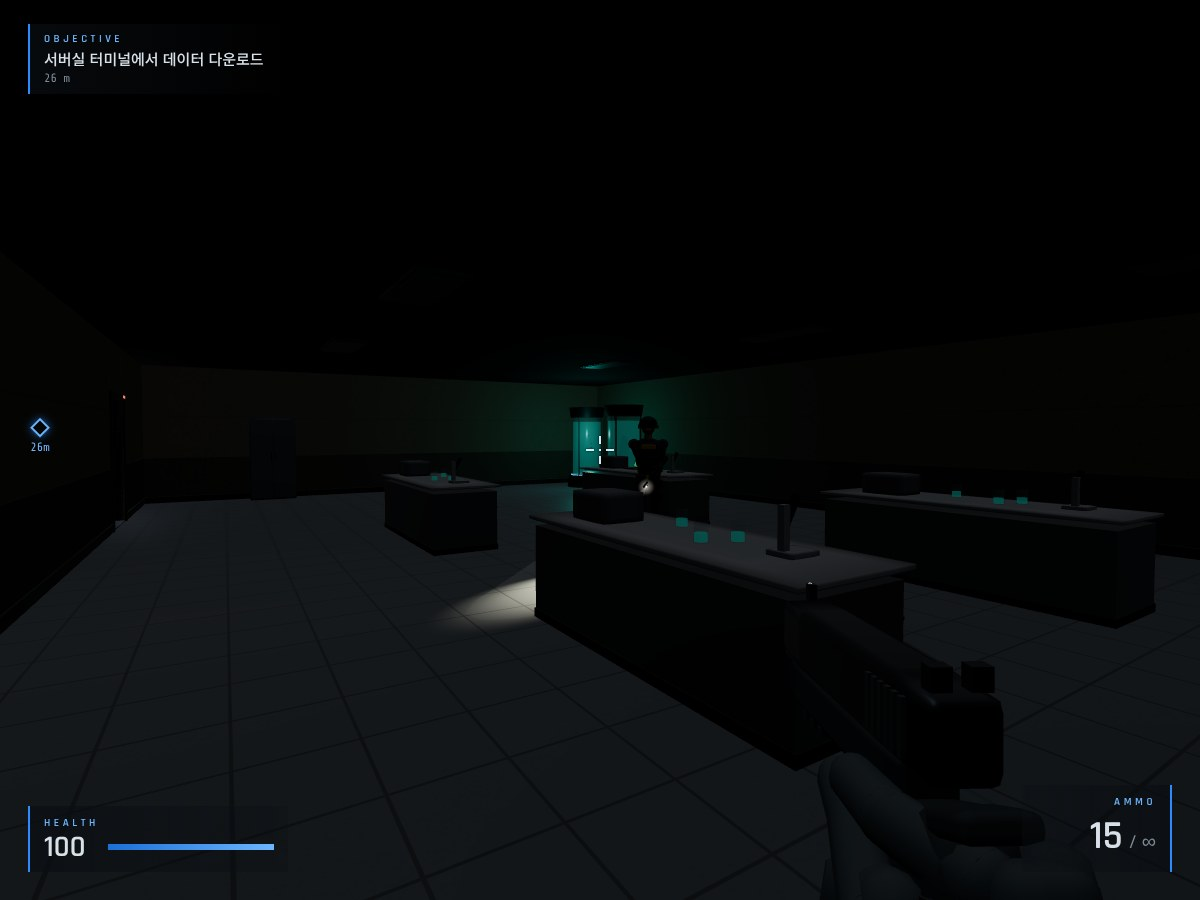
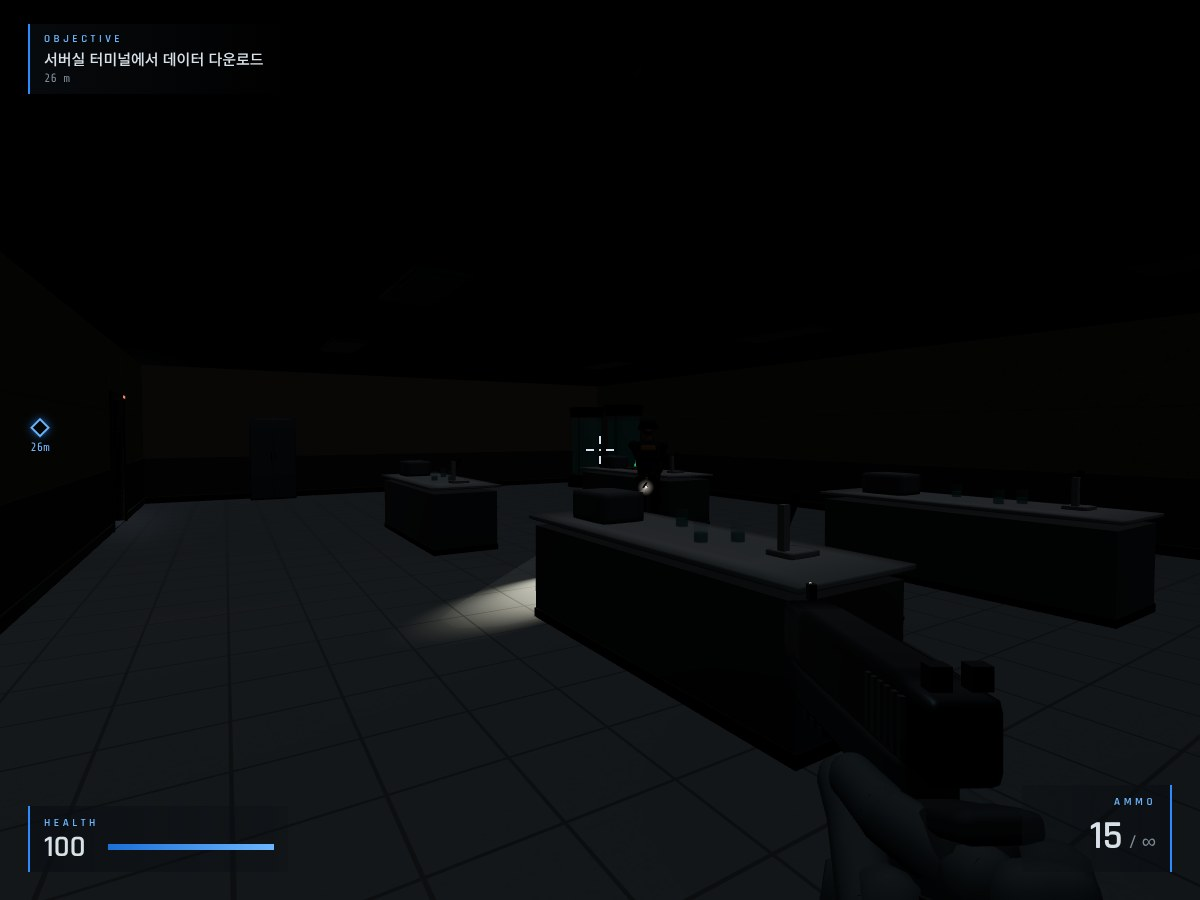
blacksite: 경비원 상체 기울임 제거, 실험실 기구 전원 꺼짐(퇴근 후 빈 시설 분위기)
Claude-Session: https://claude.ai/code/session_01BNALmAtncsyELPaCcDn6of

diff --git a/blacksite/src/animations/joint/JointAnimator.js b/blacksite/src/animations/joint/JointAnimator.js
@@ -6,7 +6,7 @@ import { clamp, damp, lerp, smooth } from '../../utils/math.js';
 const LOW_READY = {
   rShoulder: [-0.35, 0, -0.12], rElbow: [-1.0, 0.25, 0],
   lShoulder: [-0.7, 0, 0.3], lElbow: [-1.1, -0.2, 0],
-  weapon: [0.6, -0.45, 0.2], chest: [0.04, 0, 0], head: [0.05, 0, 0],
+  weapon: [0.6, -0.45, 0.2], chest: [0, 0, 0], head: [0.05, 0, 0],
 };
 const AIM = {
   rShoulder: [-1.25, 0, -0.32], rElbow: [-0.75, 0.3, 0],
@@ -70,19 +70,21 @@ export class JointAnimator {
     J.rKnee.rotation.x = R.rKnee.rot.x + Math.max(0, -Math.sin(ph + 1.3)) * 0.85 * Math.min(k, 1.3) + 0.05;
     J.hips.position.y = R.hips.pos.y + Math.abs(Math.cos(ph)) * 0.025 * Math.min(k, 1) - 0.02 * Math.min(k, 1);
     J.hips.rotation.y = Math.sin(ph) * 0.08 * Math.min(k, 1);
-    J.spine.rotation.y = -Math.sin(ph) * 0.06 * Math.min(k, 1);
-    J.spine.rotation.x = 0.06 * Math.max(0, k - 1); // 달릴 때 앞으로 숙임
+    // 상체는 기울이지 않는다 (앞으로 숙이기·옆으로 기울이기 없음, 걸을 때 아주 약한 비틀림만)
+    J.spine.rotation.set(0, -Math.sin(ph) * 0.06 * Math.min(k, 1), 0);
     // 숨쉬기
-    J.chest.rotation.x += Math.sin(this.time * 1.6) * 0.012;
+    // 숨쉬기: 기울이지 않고 가슴이 아주 살짝 오르내림
+    J.chest.position.y = R.chest.pos.y + Math.sin(this.time * 1.6) * 0.004;
     // 고개
     J.head.rotation.y = this.headYaw;
     J.neck.rotation.y = this.headYaw * 0.3;
     // 피격 움찔
     if (this.flinch > 0) {
       const f = smooth(this.flinch);
-      J.chest.rotation.x -= 0.25 * f;
-      J.head.rotation.x -= 0.2 * f;
-      J.spine.rotation.z += 0.12 * f;
+      // 피격 움찔: 상체는 그대로, 고개와 팔만 반응
+      J.head.rotation.x -= 0.25 * f;
+      J.rShoulder.rotation.x += 0.2 * f;
+      J.lShoulder.rotation.x += 0.2 * f;
     }
     // 사격 반동
     if (this.fireKick > 0) {

diff --git a/blacksite/src/environments/props/rooms.js b/blacksite/src/environments/props/rooms.js
@@ -50,7 +50,7 @@ export function labTable(def, M) {
     const l = mesh(new THREE.CylinderGeometry(0.045, 0.045, 0.06, 10), M.liquid, x, 0.96, z); l.userData.noMerge = true; g.add(l);
   });
   g.add(mesh(roundedBox(0.5, 0.25, 0.4, 0.02), M.plasticGrey, 0.8, 1.05, -0.1));
-  const sc = mesh(new THREE.PlaneGeometry(0.2, 0.1), M.screenTeal, 0.8, 1.08, 0.105); sc.castShadow = false; g.add(sc);
+  const sc = mesh(new THREE.PlaneGeometry(0.2, 0.1), M.screenOff, 0.8, 1.08, 0.105); sc.castShadow = false; g.add(sc);
   return { object: g };
 }
 
@@ -68,7 +68,7 @@ export function specimenTank(def, M) {
   blob.scale.set(1, 1.8, 0.9);
   g.add(blob);
   for (const a of [0, 2.1, 4.2]) g.add(mesh(new THREE.CylinderGeometry(0.02, 0.02, 1.8, 6), M.metal, Math.cos(a) * 0.47, 1.22, Math.sin(a) * 0.47));
-  const ring = mesh(new THREE.TorusGeometry(0.47, 0.025, 6, 20), M.ledBlue, 0, 0.36, 0, Math.PI / 2, 0, 0);
+  const ring = mesh(new THREE.TorusGeometry(0.47, 0.025, 6, 20), M.metalDark, 0, 0.36, 0, Math.PI / 2, 0, 0); // 조명 링 꺼짐
   ring.castShadow = false;
   g.add(ring);
   return { object: g };

diff --git a/blacksite/src/environments/Materials.js b/blacksite/src/environments/Materials.js
@@ -98,7 +98,9 @@ export function createMaterials() {
     ledGreen: S({ color: 0x000000, emissive: 0x3dff8a, emissiveIntensity: 2.0 }),
     ledRed: S({ color: 0x000000, emissive: 0xff2a2a, emissiveIntensity: 2.2 }),
     ledAmber: S({ color: 0x000000, emissive: 0xffa020, emissiveIntensity: 2.0 }),
-    liquid: new THREE.MeshStandardMaterial({ color: 0x0c4a4a, emissive: 0x1fb5a8, emissiveIntensity: 0.3, roughness: 0.2, transparent: true, opacity: 0.75, depthWrite: false }),
+    // 전원이 꺼진 화면 (검은 유리)
+    screenOff: S({ color: 0x07090b, roughness: 0.15, metalness: 0.4 }),
+    liquid: new THREE.MeshStandardMaterial({ color: 0x082a2a, emissive: 0x1fb5a8, emissiveIntensity: 0.02, roughness: 0.2, transparent: true, opacity: 0.75, depthWrite: false }),
     beacon: S({ color: 0x220000, emissive: 0xff3a10, emissiveIntensity: 2.0 }),
   };
   for (const k of ['ledBlue', 'ledGreen', 'ledRed', 'ledAmber', 'lightPanel', 'beacon', 'screenBlue', 'screenGreen', 'screenAmber', 'screenTeal']) {
